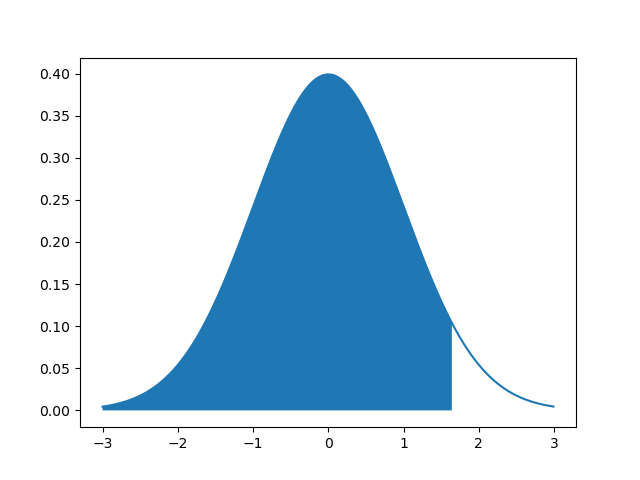
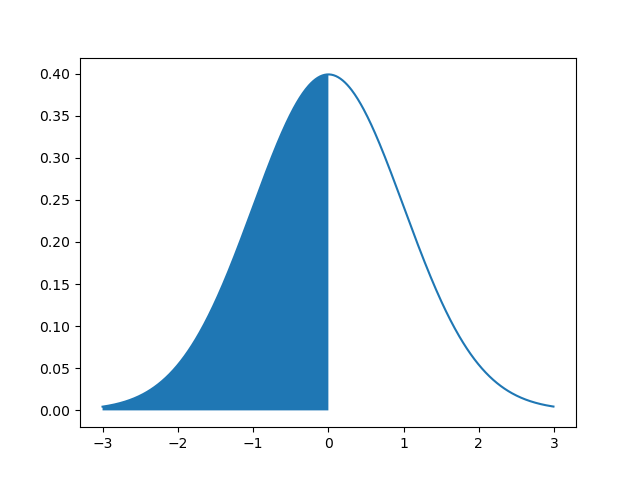
moved and tested highlighted area inside of the cdf function

Changed region(s): [[0.5, 0.1562, 0.7188, 0.875]]

diff --git a/main.py b/main.py
@@ -79,7 +79,7 @@ if __name__ == "__main__":
 
     print(f'PDF   P(x=0) = {std_norm_dist.pdf(0)}')
     print(f'PDF   P(x=1.96) = {std_norm_dist.pdf(1.96)}')
-    print(f'CDF   P(x<0) = {std_norm_dist.cdf(0)}')
+    print(f'CDF   P(x<0) = {std_norm_dist.cdf(0, True)}')
     print(f'CDF   P(x>0) = {std_norm_dist.cdfr(0)}')
     print(f'CDF   P(x<1.645) = {std_norm_dist.cdf(1.645)}')
     print(f'CDF   P(x>1.645) = {std_norm_dist.cdfr(1.645)}')
@@ -102,8 +102,8 @@ if __name__ == "__main__":
     print(f'CDF   x where P(-x<X<x) = 0.95,   x = {std_norm_dist.invm(0.95)}')
     print(f'CDF   x where P(-x<X<x) = 0.99,   x = {std_norm_dist.invm(0.99)}')
     
-    print(f'CDF   P(x<1.645) = {std_norm_dist.cdf(1.645)}')
-    std_norm_dist.draw_z_score('<', 1.645)
+    #print(f'CDF   P(x<1.645) = {std_norm_dist.cdf(1.645)}')
+    #std_norm_dist.draw_z_score('<', 1.645)
     
     print(f'CDF   P(x>1.645) = {std_norm_dist.cdfr(1.645)}')
     std_norm_dist.draw_z_score('>', 1.645)

diff --git a/continuous_distributions.py b/continuous_distributions.py
@@ -30,11 +30,14 @@ class normal_dist:
         p_x = (1/(2*math.pi*(self.stdev**2))**0.50) * (math.exp(-0.50*((x-self.mean)/self.stdev)**2))
         return p_x
     
-    def cdf(self, x1):
+    def cdf(self, x1, draw=False):
         pdf = lambda x: (1/(2*math.pi*(self.stdev**2))**0.50) * (math.exp(-0.50*((x-self.mean)/self.stdev)**2))
         p_x_cdf = integrate.quad(pdf, -20, x1)
         p_x_cdf = round(p_x_cdf[0], 10)
         
+        if draw==True:
+            self.draw_z_score('<', x1)
+            
         return p_x_cdf
     
     def cdfr(self, x1):
